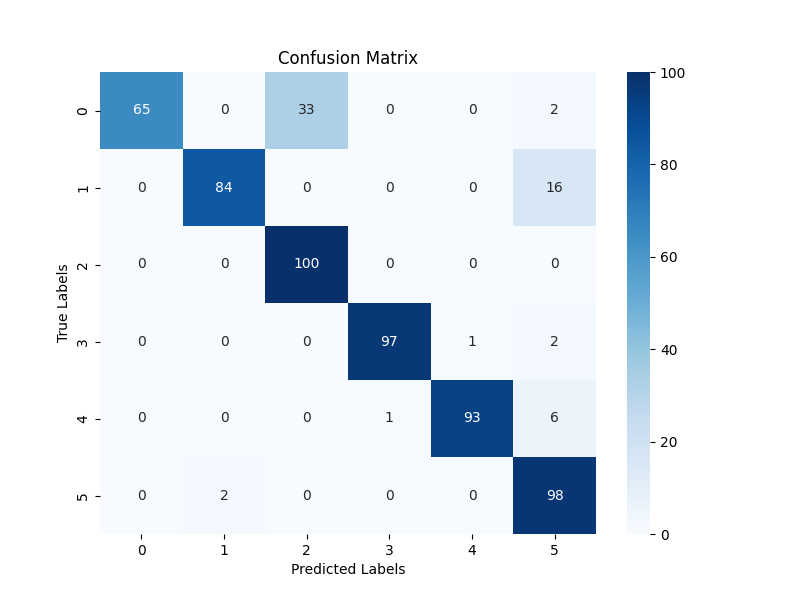
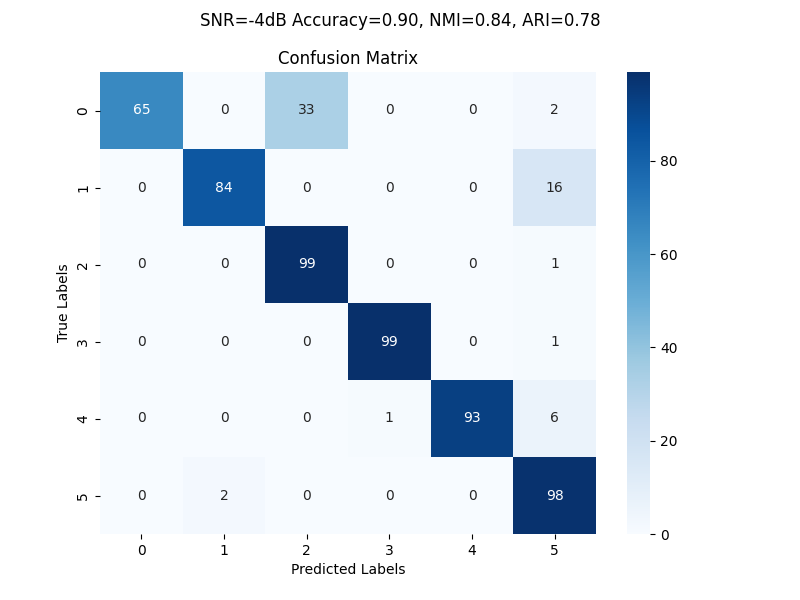
尝试老模型新数据测试, 混淆矩阵增加俩评价标准, 计划再次从理论上认知算法, 怀疑当前MSST算法部分

diff --git a/shee_confuse.py b/shee_confuse.py
@@ -4,13 +4,13 @@ from torch.utils.data.dataloader import DataLoader
 from dataset import DownDataset
 from model import Model, DownStreamModel
 import torch.nn.functional as F
-from sklearn.metrics import confusion_matrix
+from sklearn.metrics import confusion_matrix, accuracy_score, normalized_mutual_info_score, adjusted_rand_score
 import matplotlib.pyplot as plt
 import seaborn as sns
 
 
 def get_confuse_matrix(pre_model_path='./checkpoints/epoch80_checkpoint_pretrain_model_bs128.pth',
-                       model_path='./checkpoints/epoch160_down_model.pth',
+                       model_path='./checkpoints/epoch100_down_model.pth',
                        test_path='./data/TFIs30_10/final/p2'):
     # 加载模型
     args = load_args()
@@ -35,15 +35,22 @@ def get_confuse_matrix(pre_model_path='./checkpoints/epoch80_checkpoint_pretrain
         # print(pre_label, label)  # tensor([0], device='cuda:0') tensor([0], device='cuda:0')
         all_pre_label.extend(pre_label.tolist())
     matrix = confusion_matrix(all_real_label, all_pre_label)
-    return matrix
+    accuracy = accuracy_score(all_real_label, all_pre_label)
+    nmi = normalized_mutual_info_score(all_real_label, all_pre_label)
+    ari = adjusted_rand_score(all_real_label, all_pre_label)
+    return matrix, accuracy, nmi, ari
 
 
 if __name__ == '__main__':
-    conf_matrix = get_confuse_matrix(test_path='./data/TFIs30_10/final/n6')
+    conf_matrix, accuracy, nmi, ari = get_confuse_matrix(
+        pre_model_path='./checkpoints/epoch80_pretrain20250404.pth',
+        model_path='./checkpoints/epoch100_down20250404.pth',
+        test_path='./data/TFIs30_10/final/p2')
     # 可视化混淆矩阵
     plt.figure(figsize=(8, 6))
     sns.heatmap(conf_matrix, annot=True, fmt='d', cmap='Blues')
     plt.xlabel('Predicted Labels')
     plt.ylabel('True Labels')
     plt.title('Confusion Matrix')
+    plt.suptitle(f'SNR=2dB Accuracy={accuracy:.2f}, NMI={nmi:.2f}, ARI={ari:.2f}')
     plt.show()

diff --git a/README.MD b/README.MD
@@ -83,7 +83,7 @@ kmeans_repr是使用特征提取网络输出向量进行的聚类
 ResNet:pretrained=True
 ## 我的修改issue
 
-### 20250403
+### 20250403-BPSK错误  
 现在基本上确定了一个正常的训练流程,不如先在r2上绘制出一个混淆矩阵 有混淆矩阵可以大致判断当前模型的性能  
 再看其论文,我需要一个新的区分各个信噪比的数据集  
 然后在这些相应的数据集上计算混淆矩阵以及准确率  
@@ -95,7 +95,7 @@ SNR=-4上图
 <img height="300" src="./shee_process/0403_n6.png" width="400"/>  
 SNR=-6上图  
 
-### 20250404  
+### 20250404-仅修正BPSK的错误,BPSK,2FSK会随机码元不变  
 现在知道问题所在了  
 并且终于发现BPSK信号的错误  
 md,气炸了,还真是我写错了  
@@ -115,3 +115,9 @@ SNR=-6上图
 
 似乎效果也怎么提升,分析问题,可以发现,就是无噪情况下,  
 有可能信号随机生成的时候这个码元会一致,导致和固定载波一样  
+
+
+### 20250405-修正码元不变的情况,增强数据  
+看原始论文BPSK两根线,感觉还是有问题  
+但通过SPWVD算法再看BPSK没问题  
+需要学习这两种算法,而不是用AI生成  
